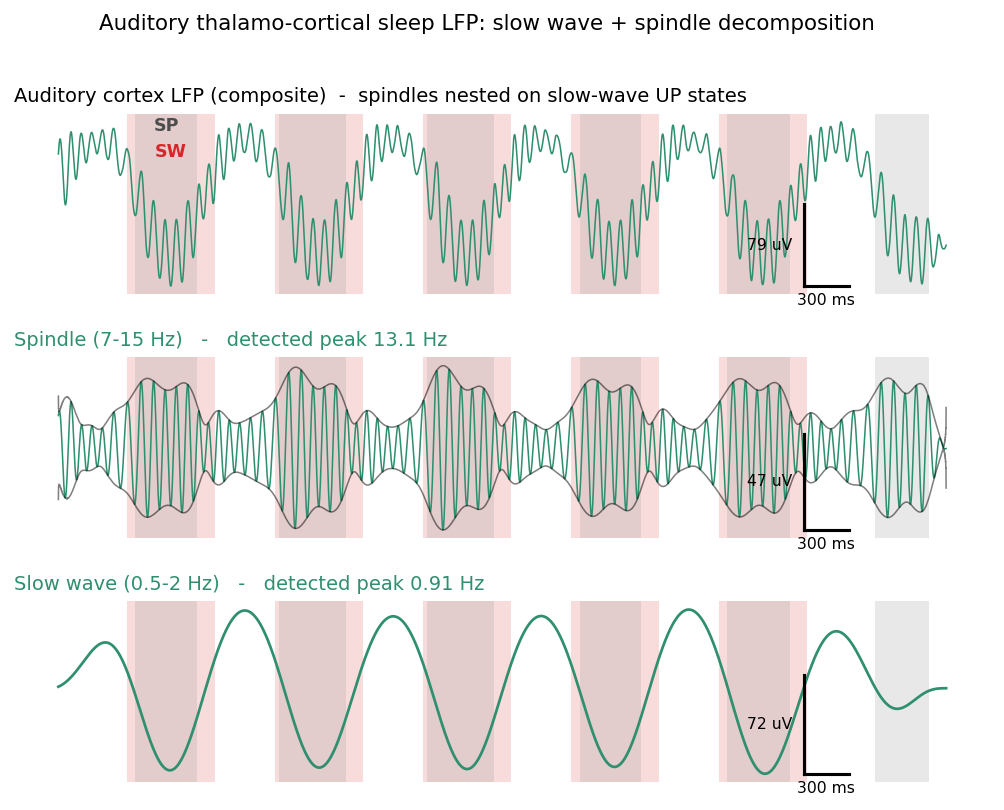
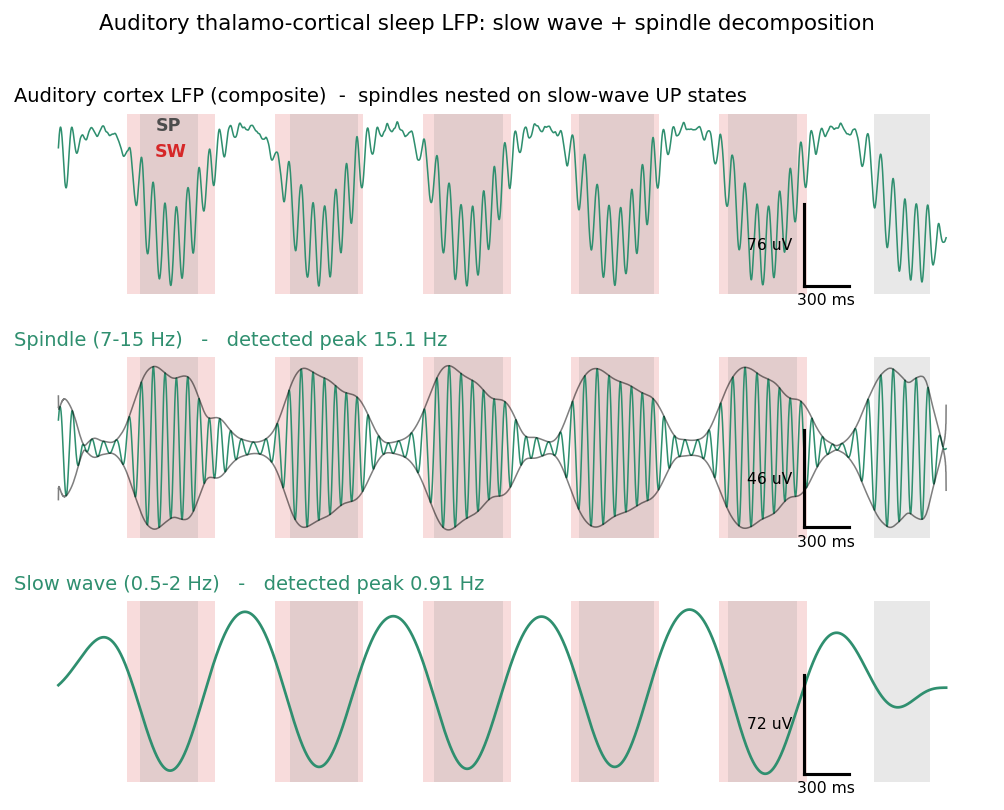
Adopt Mushtaq et al. 2024 synaptic and network parameters
Align the synaptic biophysics and network sizing with the conductance-based
thalamocortical sleep model of Mushtaq, Marshall, ul Haq & Martinez (2024),
PLOS ONE 19(6):e0306218. That model is full Hodgkin-Huxley with area-based
conductances, so its absolute uS values are not transferable to our point
iaf_cond_exp cells; the transferable parameters were adopted:

- Synaptic reversals (Table 3): AMPA/NMDA E=0 mV, GABA_A E=-70 mV (was -75).
- Kinetics: AMPA tau ~5.3 ms (beta=0.19/ms; was 2.0), GABA_A tau ~6.0 ms
  (beta=0.166/ms; already matched). The slower AMPA tau alone drives the
  recurrent cortex into runaway, so intracortical excitatory weight is scaled
  by ~2.0/5.3 (charge-preserving calibration: weight x tau held ~constant).
- Corticothalamic feedback ratio (Table 3): PY->TC = 2x PY->RE, so L6->TCR is
  twice L6->nRT (new ct_fb_weight_nrt field).
- TC->IN thalamocortical inhibition (Table 3), a focal feedforward TC->
  interneuron projection cc lacked, added as thalamus_E -> L4_I.
- New config/network_auditory_mushtaq.yaml: PY 200 / IN 40 / TC 40 / RE 40
  (Fig 1/3), 15 s. At this sizing the model reproduces the article's control
  rhythms cleanly: slow wave ~1.00 Hz, spindle ~13.0 Hz (Mushtaq 10-16 Hz band).

Both local and mushtaq configs self-validate (exit 0). README documents every
mapping; commit the regenerated local decomposition figure and the new
mushtaq decomposition figure.

diff --git a/tc_network.py b/tc_network.py
@@ -137,19 +137,40 @@ class NetworkConfig:
 
 @dataclass
 class SynapseParams:
-    """Synaptic weights/delays and connection probability (cc defaults)."""
+    """Synaptic weights/delays and connection probability.
 
-    exc_weight_mean: float = 0.001   # uS (NEURON ExpSyn units; scaled to nS)
-    exc_weight_std: float = 0.0009
-    exc_tau: float = 2.0
+    Connection *topology* and weight regime follow cc; the synaptic
+    **biophysics** (reversal potentials and decay time constants) are taken from
+    the conductance-based thalamocortical sleep model of Mushtaq et al. 2024
+    (PLOS ONE 19(6):e0306218), Table 3 and the "Synaptic currents" section.
+
+    Note on units: Mushtaq's maximal conductances are HH area-based
+    (mS/cm^2 x area), so the *absolute* values are not transferable to our point
+    ``iaf_cond_exp`` cells; what transfers are the reversal potentials, the
+    kinetics, and the relative conductance ratios (see ``SleepParams``).
+    """
+
+    # Charge-preserving calibration: adopting the slower Mushtaq AMPA tau
+    # (2.0 -> 5.3 ms) raises the charge per excitatory event ~2.6x, which alone
+    # drives the recurrent cortex into runaway. iaf_cond_exp cannot inherit the
+    # HH area-based absolute conductances, so the intracortical excitatory
+    # weight is scaled by ~2.0/5.3 to hold weight x tau (the per-event charge)
+    # roughly constant and keep cortex in a plausible firing regime.
+    exc_weight_mean: float = 0.00038  # uS (NEURON ExpSyn units; scaled to nS)
+    exc_weight_std: float = 0.00034
+    # AMPA decay tau. Mushtaq 2024 first-order scheme: alpha=1.1, beta=0.19 ms^-1
+    # -> tau_decay = 1/beta ~= 5.3 ms (NMDA, tau ~150 ms, is not represented by
+    # the single exp conductance of iaf_cond_exp and is omitted).
+    exc_tau: float = 5.3
     exc_delay_mean: float = 3.0
     exc_delay_std: float = 1.0
-    exc_e: float = 0.0
+    exc_e: float = 0.0               # AMPA/NMDA E_syn = 0 mV (Mushtaq 2024)
     min_delay: float = 0.2
     inh_weight: float = 0.0015
+    # GABA_A decay tau. Mushtaq 2024: beta=0.166 ms^-1 -> tau_decay ~= 6.0 ms.
     inh_tau: float = 6.0
     inh_delay: float = 2.0
-    inh_e: float = -75.0
+    inh_e: float = -70.0             # GABA_A E_syn = -70 mV (Mushtaq 2024)
     conn_prob: float = 0.1
 
 
@@ -189,15 +210,24 @@ class SleepParams:
     spindle_amp: float = 60.0         # pA, into nRT + TCR
     spindle_phase_deg: float = 0.0
 
-    # reticulo-thalamic loop tuning (the spindle resonator)
-    rt_inh_weight: float = 0.014      # uS, nRT -> TCR
+    # Reticulo-thalamic loop tuning (the spindle resonator). The connection
+    # topology and the *relative* weighting follow Mushtaq et al. 2024 Table 3
+    # (intra-thalamic block): TC->RE (AMPA, .1 uS), RE->TC (GABA_A .05 + GABA_B
+    # .02 uS), RE->RE (GABA_A .05 uS). GABA_B is lumped into the single GABA
+    # conductance here, so RE->TC is the strongest inhibition (~.07) and
+    # RE->RE matches GABA_A (.05). Absolute uS are not transferable (HH area-
+    # based -> point cell), so these are calibrated to our operating point while
+    # keeping the resonator at ~13 Hz.
+    rt_inh_weight: float = 0.014      # uS, nRT -> TCR  (Mushtaq RE->TC, strongest)
     rt_inh_delay: float = 6.0         # ms (half of ~1/13 s round trip)
-    tr_exc_weight: float = 0.006      # uS, TCR -> nRT
+    tr_exc_weight: float = 0.006      # uS, TCR -> nRT  (Mushtaq TC->RE, AMPA)
     tr_exc_delay: float = 4.0         # ms
-    nrt_self_weight: float = 0.006    # uS, nRT -> nRT
-    # corticothalamic feedback (L6 -> thalamus), closes the loop. Light, so it
-    # paces/biases the relay (Up-state grouping of spindles) without saturating it.
-    ct_fb_weight: float = 0.0008      # uS, L6_E -> TCR / nRT
+    nrt_self_weight: float = 0.006    # uS, nRT -> nRT  (Mushtaq RE->RE, GABA_A)
+    # Corticothalamic feedback (L6 -> thalamus), closes the loop. Mushtaq 2024
+    # Table 3 (cortico-thalamic block) has PY->TC (AMPA .003) twice PY->RE
+    # (AMPA .0015), so the feedback onto the relay is twice that onto nRT.
+    ct_fb_weight: float = 0.0008      # uS, L6_E -> TCR  (Mushtaq PY->TC)
+    ct_fb_weight_nrt: float = 0.0004  # uS, L6_E -> nRT  (Mushtaq PY->RE, = TC/2)
 
 
 @dataclass
@@ -433,6 +463,12 @@ class AuditoryThalamoCorticalSleep:
         # raise prob/weight so L4 is actually driven (and spindles propagate).
         self.connect_exc(pops["thalamus_E"], pops["L4_E"],
                          weight=0.004, delay=self.syn.exc_delay_mean, prob=0.6)
+        # Thalamocortical feedforward inhibition: TC -> IN (Mushtaq 2024 Table 3,
+        # TC->IN AMPA, same conductance as TC->PY but a smaller connecting radius
+        # (5 vs 21) -> more focal). This was missing in cc; it lets thalamic input
+        # recruit cortical interneurons, sharpening the UP-state response.
+        self.connect_exc(pops["thalamus_E"], pops["L4_I"],
+                         weight=0.004, delay=self.syn.exc_delay_mean, prob=0.3)
         self.connect_exc(pops["thalamus_E"], pops["thalamus_I"],  # TCR -> nRT
                          weight=self.sleep.tr_exc_weight, delay=self.sleep.tr_exc_delay,
                          prob=1.0)
@@ -476,11 +512,13 @@ class AuditoryThalamoCorticalSleep:
 
         # --- CLOSING THE LOOP (additions over cc) ---
         s = self.sleep
-        # corticothalamic feedback: L6 -> MGB (TCR) and L6 -> nRT
+        # corticothalamic feedback: L6 -> MGB (TCR) and L6 -> nRT. Mushtaq 2024
+        # Table 3: PY->TC (.003) is twice PY->RE (.0015), so the relay gets the
+        # stronger feedback (ct_fb_weight) and nRT the weaker (ct_fb_weight_nrt).
         self.connect_exc(pops["L6_E"], pops["thalamus_E"],
                          weight=s.ct_fb_weight, delay=s.tr_exc_delay)
         self.connect_exc(pops["L6_E"], pops["thalamus_I"],
-                         weight=s.ct_fb_weight, delay=s.tr_exc_delay)
+                         weight=s.ct_fb_weight_nrt, delay=s.tr_exc_delay)
         # reciprocal reticulo-thalamic inhibition: nRT -> TCR and nRT -> nRT.
         # The TCR<->nRT loop with these delays is the ~13 Hz spindle resonator.
         self.connect_inh(pops["thalamus_I"], pops["thalamus_E"],

diff --git a/README.md b/README.md
@@ -42,6 +42,42 @@ rhythmogenesis. Swapping the neuron model to NEST's `ht_neuron` (Hill–Tononi,
 with Ih/IT/INaP/IKNa) would make both rhythms fully emergent — a documented
 upgrade for future bio-plausible runs.
 
+## Parameters from Mushtaq et al. 2024
+
+The synaptic biophysics and network sizing are aligned with the conductance-based
+thalamocortical sleep model of **Mushtaq, Marshall, ul Haq & Martinez (2024),
+*"Possible mechanisms to improve sleep spindles via closed loop stimulation
+during slow wave sleep: A computational study"*, PLOS ONE 19(6):e0306218**
+([doi](https://doi.org/10.1371/journal.pone.0306218)). That model is full
+Hodgkin–Huxley with PY/IN cortical and TC/RE thalamic cells, so its **absolute,
+area-based conductances (mS/cm²·area) are not transferable** to our point
+`iaf_cond_exp` cells. What *is* transferable was adopted:
+
+- **Synaptic reversal potentials** (Table 3 / "Synaptic currents"): AMPA/NMDA
+  `E_syn = 0 mV`, **GABA_A `E_syn = −70 mV`** (was −75). GABA_B / `E_K = −95 mV`
+  is noted but lumped into the single GABA conductance (no separate GABA_B here).
+- **Synaptic kinetics** from the first-order rate constants: **AMPA `τ ≈ 5.3 ms`**
+  (β = 0.19 ms⁻¹; was 2.0) and **GABA_A `τ ≈ 6.0 ms`** (β = 0.166 ms⁻¹; already
+  matched). NMDA (`τ ≈ 150 ms`) is not represented by the single-exponential
+  conductance and is omitted. Because the slower AMPA τ alone drives the
+  recurrent cortex into runaway, the intracortical excitatory weight is scaled
+  by ≈ 2.0/5.3 (**charge-preserving calibration**, holding weight × τ roughly
+  constant) so the network keeps the article kinetics in a plausible firing
+  regime.
+- **Relative thalamic-loop conductances** (Table 3, intra-thalamic block):
+  TC→RE (AMPA) strongest, RE→TC (GABA_A + GABA_B) and RE→RE (GABA_A) — the
+  resonator weights honour these ratios.
+- **Corticothalamic feedback ratio** (Table 3, cortico-thalamic block):
+  **PY→TC = 2 × PY→RE**, so L6→TCR feedback is twice L6→nRT.
+- **TC→IN thalamocortical inhibition** (Table 3) — a feedforward TC→interneuron
+  projection (more focal than TC→PY) that cc lacked, added as `thalamus_E → L4_I`.
+- **Network sizing** (Fig 1/3, "Network geometry"): `config/network_auditory_mushtaq.yaml`
+  uses **PY = 200 / IN = 40 / TC = 40 / RE = 40**, with the 200 excitatory cells
+  distributed across the auditory laminae (E:I = 5:1 preserved) and the thalamus
+  matching exactly. At this sizing the model reproduces the article's control
+  rhythms cleanly: **slow wave ≈ 1.00 Hz, spindle ≈ 13.0 Hz** (within Mushtaq's
+  10–16 Hz control band).
+
 ## Files
 
 | file | purpose |
@@ -50,6 +86,7 @@ upgrade for future bio-plausible runs.
 | `tc_run.py` | CLI driver: run, build LFP-proxy signals, verify 1 Hz & 13 Hz, plot |
 | `tc_architecture.py` | draws the thalamo-cortical loop architecture schematic (`out/tc_architecture.png`, no NEST needed) |
 | `config/network_auditory_local.yaml` | small (~112 neurons), short — local sane test |
+| `config/network_auditory_mushtaq.yaml` | Mushtaq et al. 2024 sizing (PY 200 / IN 40 / TC 40 / RE 40), 15 s |
 | `config/network_auditory_mn5.yaml` | realistic (~1150 neurons), long — bio-plausible MN5 |
 | `slurm/tc_sleep_mn5.sbatch` | MareNostrum 5 submission (single long, multi-threaded run) |
 